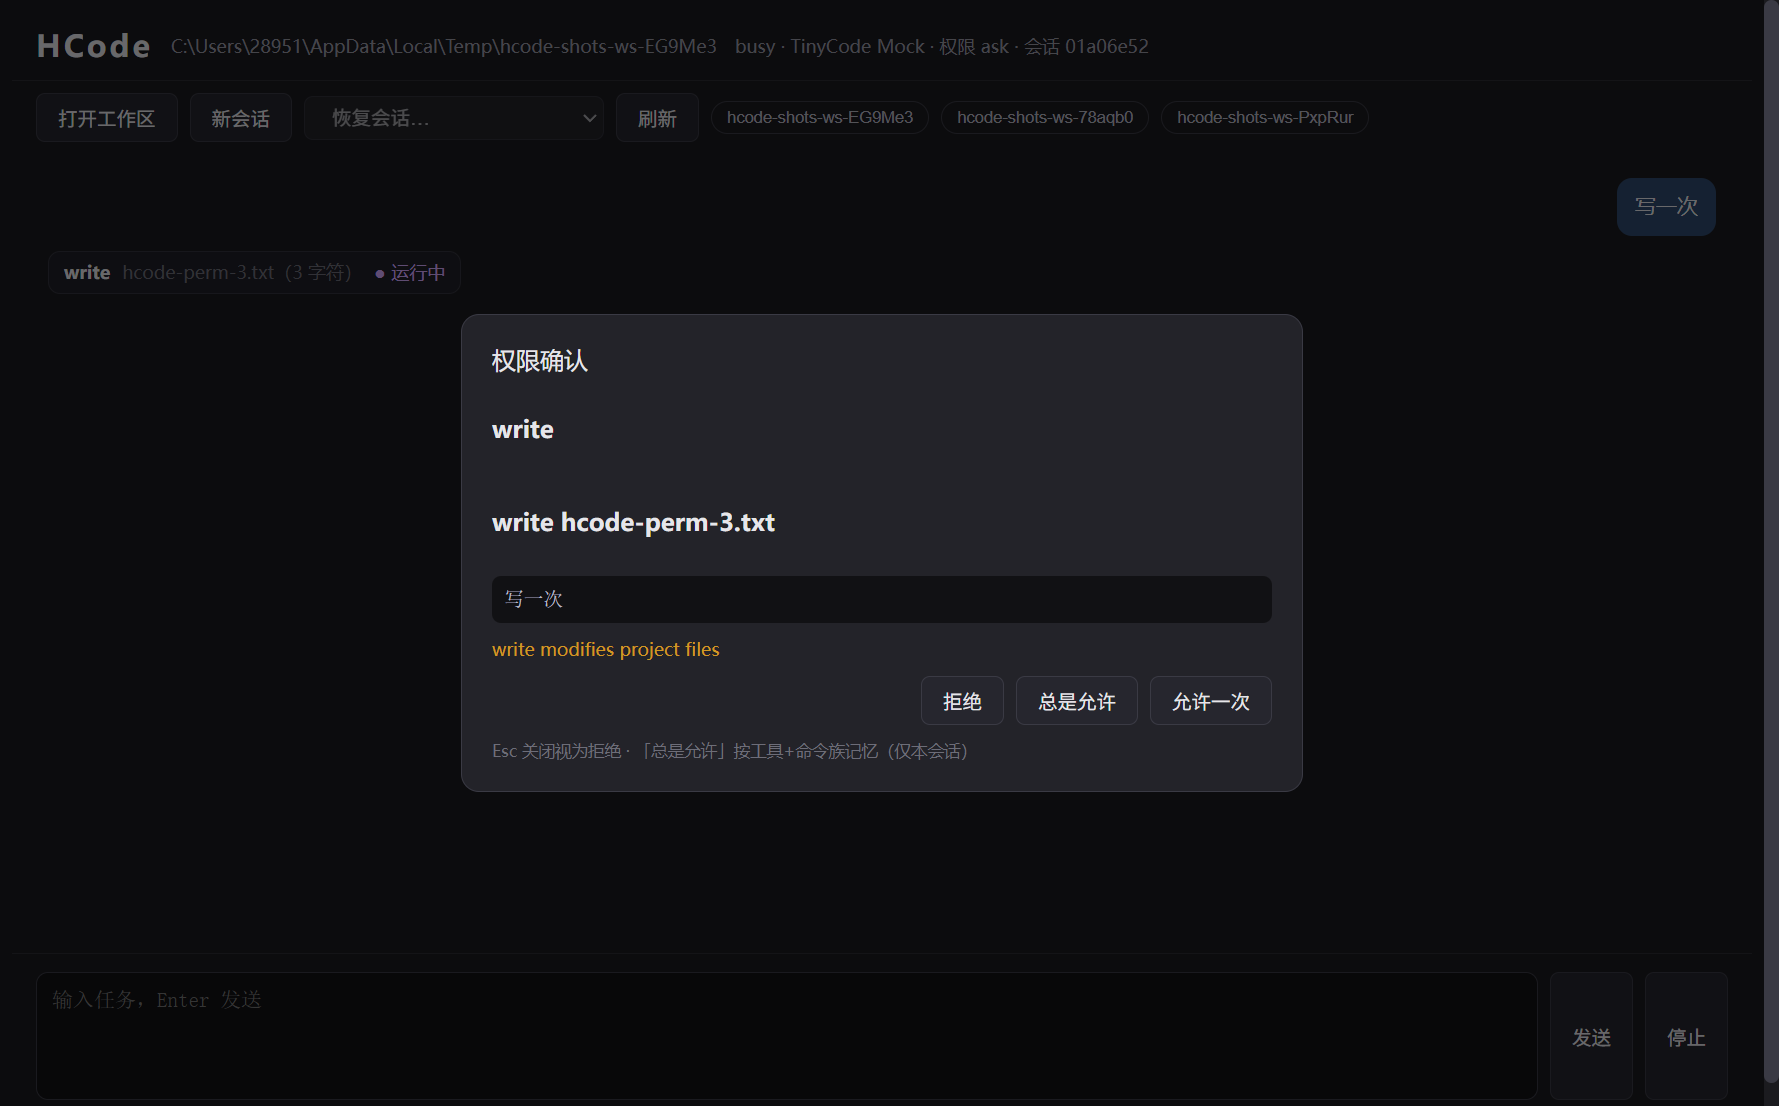
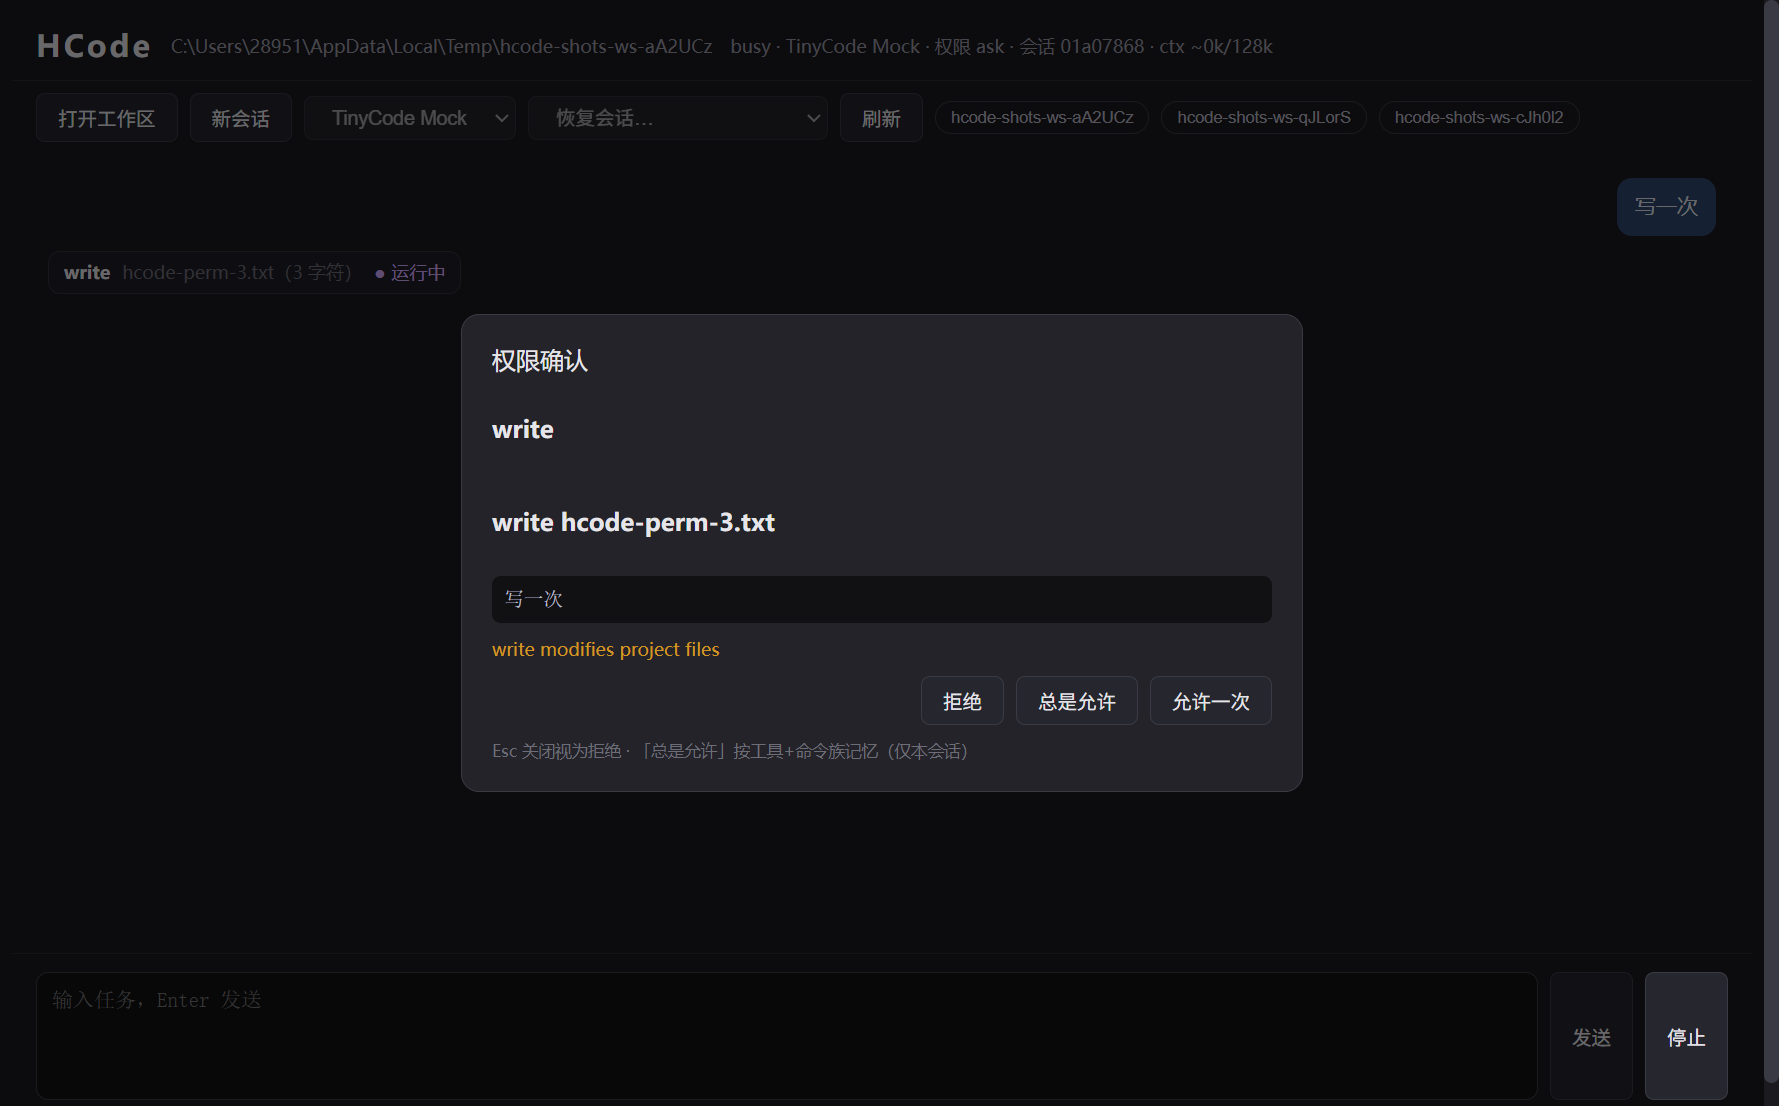
fix(desktop): 视觉评审修复——空态模型列表返回空数组而非抛错（T4 回归）(#18)

diff --git a/desktop/src/main/index.ts b/desktop/src/main/index.ts
@@ -142,7 +142,7 @@ function registerIpc(): void {
     requireBridge().respondPermission(id, outcome);
   });
 
-  ipcMain.handle("hcode/model/list", () => requireBridge().listModels());
+  ipcMain.handle("hcode/model/list", () => (bridge ? bridge.listModels() : []));
 
   ipcMain.handle("hcode/model/set", async (_e, payload: unknown) => {
     const { provider, id } = (payload ?? {}) as { provider?: unknown; id?: unknown };
